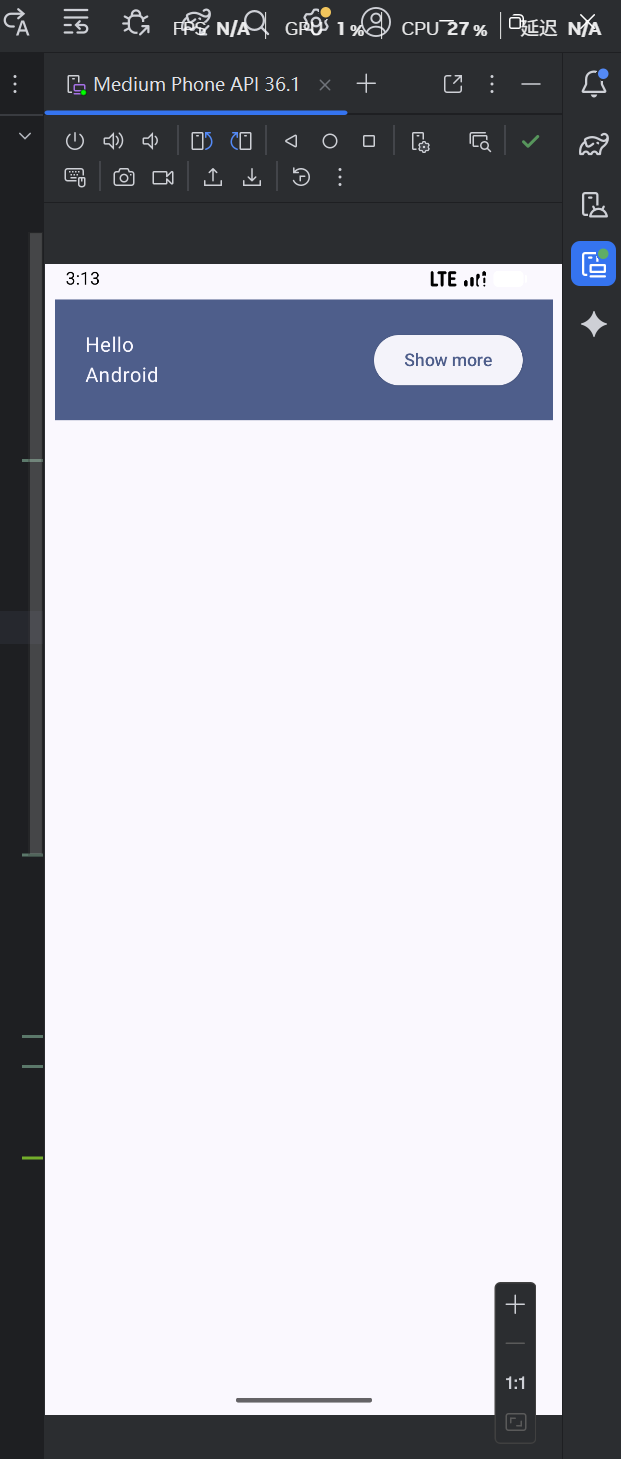
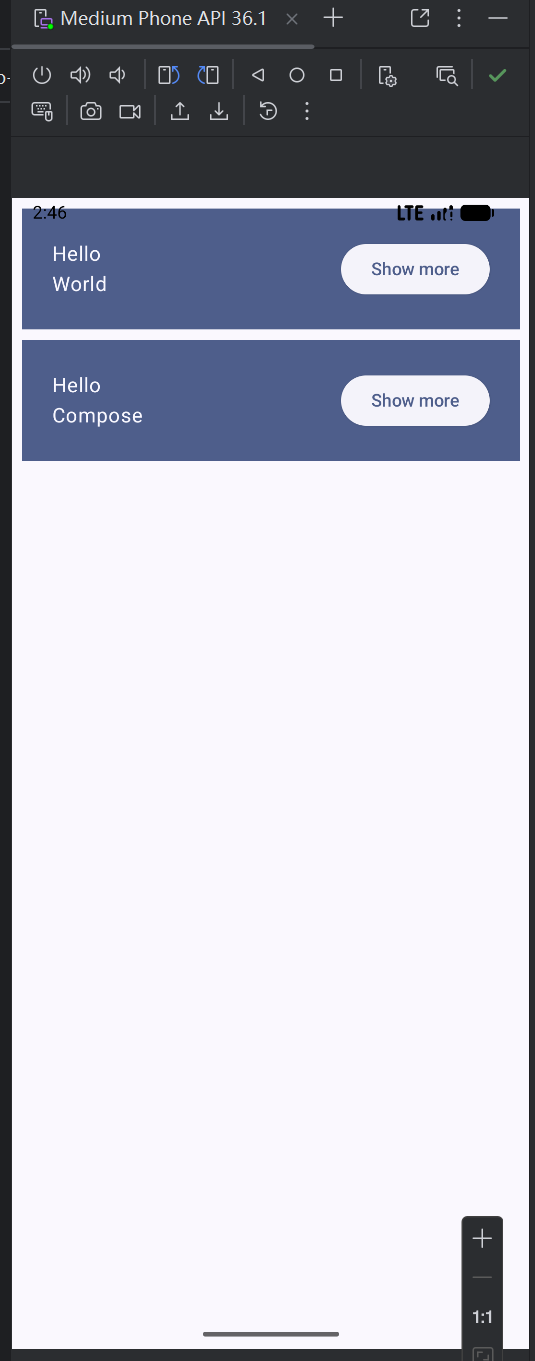
Update Task2Screen layout and images

Changed region(s): [[0.0, 0.0, 1.0, 1.0], [0.6579, 0.0, 0.9869, 0.0617]]

diff --git a/BasicsCodelab/app/src/main/java/com/example/basicscodelab/ui/Task2Screen.kt b/BasicsCodelab/app/src/main/java/com/example/basicscodelab/ui/Task2Screen.kt
@@ -1,21 +1,14 @@
 package com.example.basicscodelab.ui
 
-import androidx.compose.foundation.layout.Arrangement
 import androidx.compose.foundation.layout.Column
 import androidx.compose.foundation.layout.Row
-import androidx.compose.foundation.layout.fillMaxSize
 import androidx.compose.foundation.layout.fillMaxWidth
 import androidx.compose.foundation.layout.padding
-import androidx.compose.material3.Button
+import androidx.compose.material3.ElevatedButton
 import androidx.compose.material3.MaterialTheme
 import androidx.compose.material3.Surface
 import androidx.compose.material3.Text
 import androidx.compose.runtime.Composable
-import androidx.compose.runtime.getValue
-import androidx.compose.runtime.mutableStateOf
-import androidx.compose.runtime.remember
-import androidx.compose.runtime.setValue
-import androidx.compose.ui.Alignment
 import androidx.compose.ui.Modifier
 import androidx.compose.ui.tooling.preview.Preview
 import androidx.compose.ui.unit.dp
@@ -23,48 +16,36 @@ import com.example.basicscodelab.ui.theme.BasicsCodelabTheme
 
 @Composable
 fun Task2Screen(modifier: Modifier = Modifier) {
-    var count by remember { mutableStateOf(0) }
+    MyApp(modifier = modifier)
+}
 
+@Composable
+fun MyApp(
+    modifier: Modifier = Modifier,
+    names: List<String> = listOf("World", "Compose")
+) {
+    Column(modifier = modifier.padding(vertical = 4.dp)) {
+        for (name in names) {
+            Greeting(name = name)
+        }
+    }
+}
+
+@Composable
+fun Greeting(name: String, modifier: Modifier = Modifier) {
     Surface(
-        modifier = modifier.fillMaxSize(),
-        color = MaterialTheme.colorScheme.background
+        color = MaterialTheme.colorScheme.primary,
+        modifier = modifier.padding(vertical = 4.dp, horizontal = 8.dp)
     ) {
-        Column(
-            modifier = Modifier
-                .fillMaxSize()
-                .padding(16.dp),
-            verticalArrangement = Arrangement.Center,
-            horizontalAlignment = Alignment.CenterHorizontally
-        ) {
-            Text(
-                text = "Count: $count",
-                style = MaterialTheme.typography.headlineMedium
-            )
-
-            Row(
-                modifier = Modifier.fillMaxWidth(),
-                horizontalArrangement = Arrangement.SpaceEvenly,
-                verticalAlignment = Alignment.CenterVertically
-            ) {
-                Button(onClick = { count++ }) {
-                    Text(text = "增加")
-                }
-                Button(onClick = { count-- }) {
-                    Text(text = "减少")
-                }
+        Row(modifier = Modifier.padding(24.dp)) {
+            Column(modifier = Modifier.weight(1f)) {
+                Text(text = "Hello ")
+                Text(text = name)
             }
-
-            Column(
-                modifier = Modifier.fillMaxWidth(),
-                verticalArrangement = Arrangement.spacedBy(8.dp),
-                horizontalAlignment = Alignment.CenterHorizontally
+            ElevatedButton(
+                onClick = { /* TODO */ }
             ) {
-                Button(onClick = { count += 10 }) {
-                    Text(text = "快速增加 +10")
-                }
-                Button(onClick = { count = 0 }) {
-                    Text(text = "重置")
-                }
+                Text("Show more")
             }
         }
     }